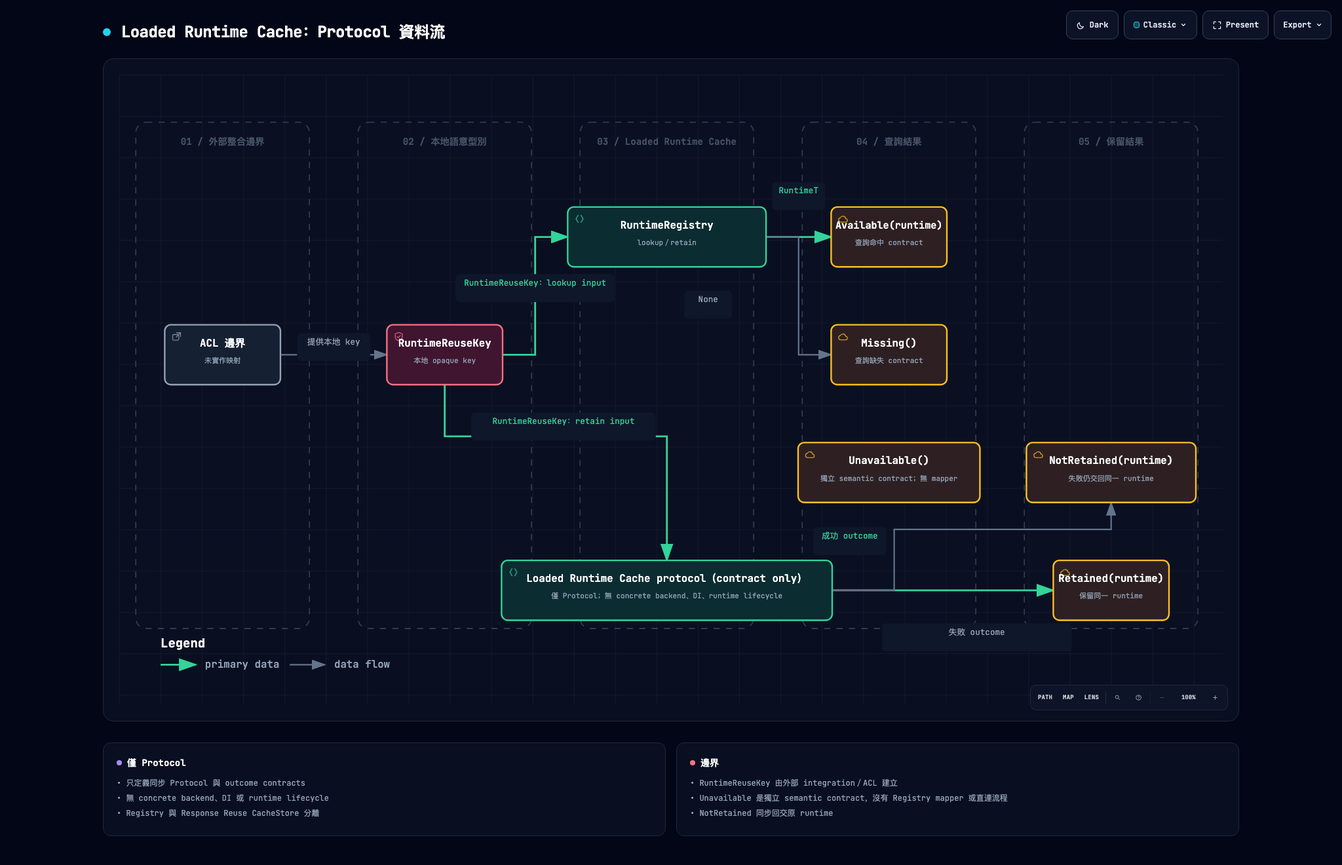
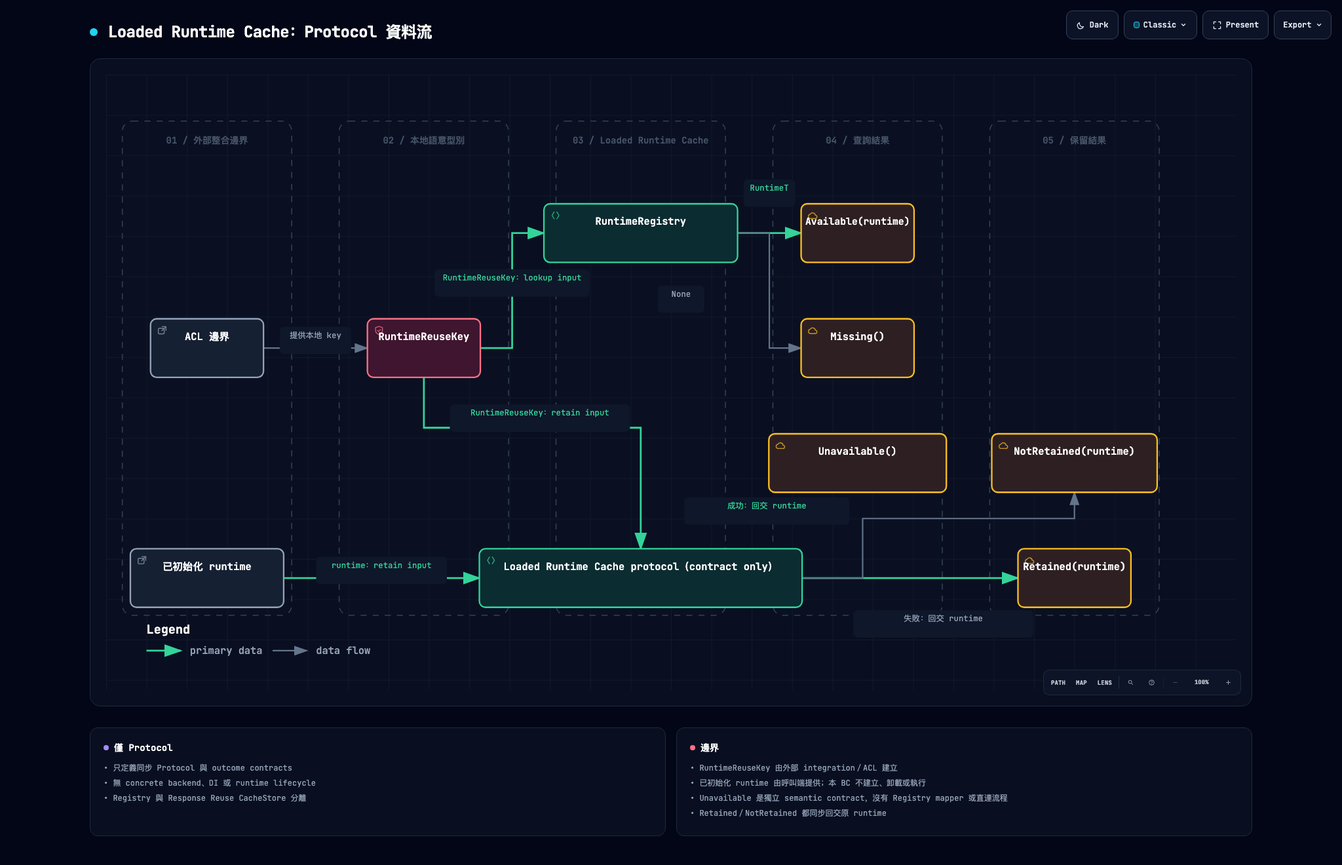
fix(loaded-runtime-cache): complete chained alias guard

diff --git a/docs/architecture/loaded-runtime-cache/loaded-runtime-cache.dataflow.html b/docs/architecture/loaded-runtime-cache/loaded-runtime-cache.dataflow.html
@@ -4997,7 +4997,7 @@
     <!-- Main Diagram -->
     <div class="diagram-container" data-detail-level="read"
          data-preset-badge-editorial-plate="ARCHIFY / PLATE 04">
-      <svg viewBox="0 0 1068 610" role="img" lang="en" aria-labelledby="archify-diagram-title archify-diagram-description" data-preset="classic" data-quality-profile="showcase">
+      <svg viewBox="0 0 1120 610" role="img" lang="en" aria-labelledby="archify-diagram-title archify-diagram-description" data-preset="classic" data-quality-profile="showcase">
         <title id="archify-diagram-title">Loaded Runtime Cache：Protocol 資料流</title>
         <desc id="archify-diagram-description">A data-flow diagram generated by Archify.</desc>
         <!-- Definitions -->
@@ -5042,116 +5042,120 @@
         <path data-edge-from="external-acl" data-edge-to="reuse-key" data-edge-label="提供本地 key" data-edge-key="0" data-edge-id="acl-provides-key" data-composition-points="156,271;259,271" d="M 156 271 L 259 271" class="a-default" stroke-width="1.4" marker-end="url(#arrowhead)"/>
         <path data-edge-from="reuse-key" data-edge-to="runtime-registry" data-edge-label="RuntimeReuseKey：lookup input" data-edge-key="1" data-edge-id="key-to-registry" data-composition-points="371,271;402.5,271;402.5,157;434,157" d="M 371 271 L 402.5 271 L 402.5 157 L 434 157" class="a-emphasis" stroke-width="1.8" marker-end="url(#arrowhead-emphasis)"/>
         <path data-edge-from="reuse-key" data-edge-to="runtime-retention" data-edge-label="RuntimeReuseKey：retain input" data-edge-key="2" data-edge-id="key-to-retention" data-composition-points="315,300;315,350;530,350;530,470" d="M 315 300 L 315 350 L 530 350 L 530 470" class="a-emphasis" stroke-width="1.8" marker-end="url(#arrowhead-emphasis)"/>
-        <path data-edge-from="runtime-registry" data-edge-to="available" data-edge-label="RuntimeT" data-edge-key="3" data-edge-id="lookup-hit" data-composition-points="626,157;689,157" d="M 626 157 L 689 157" class="a-emphasis" stroke-width="1.8" marker-end="url(#arrowhead-emphasis)"/>
-        <path data-edge-from="runtime-registry" data-edge-to="missing" data-edge-label="None" data-edge-key="4" data-edge-id="lookup-miss" data-composition-points="626,157;657.5,157;657.5,271;689,271" d="M 626 157 L 657.5 157 L 657.5 271 L 689 271" class="a-default" stroke-width="1.4" marker-end="url(#arrowhead)"/>
-        <path data-edge-from="runtime-retention" data-edge-to="retained" data-edge-label="成功 outcome" data-edge-key="5" data-edge-id="retain-success" data-composition-points="690,499;904,499" d="M 690 499 L 904 499" class="a-emphasis" stroke-width="1.8" marker-end="url(#arrowhead-emphasis)"/>
-        <path data-edge-from="runtime-retention" data-edge-to="not-retained" data-edge-label="失敗 outcome" data-edge-key="6" data-edge-id="retain-failure" data-composition-points="690,499;750,499;750,440;960,440;960,414" d="M 690 499 L 750 499 L 750 440 L 960 440 L 960 414" class="a-default" stroke-width="1.4" marker-end="url(#arrowhead)"/>
+        <path data-edge-from="initialized-runtime" data-edge-to="runtime-retention" data-edge-label="runtime：retain input" data-edge-key="3" data-edge-id="runtime-to-retention" data-composition-points="176,499;370,499" d="M 176 499 L 370 499" class="a-emphasis" stroke-width="1.8" marker-end="url(#arrowhead-emphasis)"/>
+        <path data-edge-from="runtime-registry" data-edge-to="available" data-edge-label="RuntimeT" data-edge-key="4" data-edge-id="lookup-hit" data-composition-points="626,157;689,157" d="M 626 157 L 689 157" class="a-emphasis" stroke-width="1.8" marker-end="url(#arrowhead-emphasis)"/>
+        <path data-edge-from="runtime-registry" data-edge-to="missing" data-edge-label="None" data-edge-key="5" data-edge-id="lookup-miss" data-composition-points="626,157;657.5,157;657.5,271;689,271" d="M 626 157 L 657.5 157 L 657.5 271 L 689 271" class="a-default" stroke-width="1.4" marker-end="url(#arrowhead)"/>
+        <path data-edge-from="runtime-retention" data-edge-to="retained" data-edge-label="成功：回交 runtime" data-edge-key="6" data-edge-id="retain-success" data-composition-points="690,499;904,499" d="M 690 499 L 904 499" class="a-emphasis" stroke-width="1.8" marker-end="url(#arrowhead-emphasis)"/>
+        <path data-edge-from="runtime-retention" data-edge-to="not-retained" data-edge-label="失敗：回交 runtime" data-edge-key="7" data-edge-id="retain-failure" data-composition-points="690,499;750,499;750,440;960,440;960,414" d="M 690 499 L 750 499 L 750 440 L 960 440 L 960 414" class="a-default" stroke-width="1.4" marker-end="url(#arrowhead)"/>
 
         <!-- Nodes -->
-        <g id="node-external-acl" data-node-id="external-acl" data-node-label="ACL 邊界" tabindex="0" role="button" aria-label="Focus ACL 邊界, 未實作映射, 01 / 外部整合邊界" aria-pressed="false" data-node-kind="external" data-node-sublabel="未實作映射" data-node-tag="BC 外" data-node-context="01 / 外部整合邊界">
-          <title>ACL 邊界 · 未實作映射 · 01 / 外部整合邊界 · BC 外</title>
+        <g id="node-external-acl" data-node-id="external-acl" data-node-label="ACL 邊界" tabindex="0" role="button" aria-label="Focus ACL 邊界, 01 / 外部整合邊界" aria-pressed="false" data-node-kind="external" data-node-tag="BC 外" data-node-context="01 / 外部整合邊界">
+          <title>ACL 邊界 · 01 / 外部整合邊界 · BC 外</title>
           <rect x="44" y="242" width="112" height="58" rx="6" class="c-mask"/>
           <rect x="44" y="242" width="112" height="58" rx="6" class="c-external" stroke-width="1.5"/>
           <g aria-hidden="true" data-semantic-sigil="external" class="semantic-sigil s-external" transform="translate(50 248) scale(0.6875)">
             <rect x="2.5" y="5" width="8.5" height="8" rx="1.5"/>
             <path d="M8 2.5h5.5V8M13.5 2.5 7.5 8.5"/>
           </g>
-          <text data-node-label="" data-detail-anchor="" x="100" y="263" class="t-primary" font-size="10" font-weight="600" text-anchor="middle">ACL 邊界</text>
-          <text data-detail="context" x="100" y="279" class="t-muted" font-size="7" text-anchor="middle">未實作映射</text>
+          <text data-node-label="" x="100" y="263" class="t-primary" font-size="10" font-weight="600" text-anchor="middle">ACL 邊界</text>
         <text data-detail="fine" x="100" y="289" class="t-external" font-size="7" text-anchor="middle">BC 外</text>
         </g>
 
-        <g id="node-reuse-key" data-node-id="reuse-key" data-node-label="RuntimeReuseKey" tabindex="0" role="button" aria-label="Focus RuntimeReuseKey, 本地 opaque key, 02 / 本地語意型別" aria-pressed="false" data-node-kind="security" data-node-sublabel="本地 opaque key" data-node-tag="原樣傳遞" data-node-context="02 / 本地語意型別">
-          <title>RuntimeReuseKey · 本地 opaque key · 02 / 本地語意型別 · 原樣傳遞</title>
+        <g id="node-reuse-key" data-node-id="reuse-key" data-node-label="RuntimeReuseKey" tabindex="0" role="button" aria-label="Focus RuntimeReuseKey, 02 / 本地語意型別" aria-pressed="false" data-node-kind="security" data-node-tag="原樣傳遞" data-node-context="02 / 本地語意型別">
+          <title>RuntimeReuseKey · 02 / 本地語意型別 · 原樣傳遞</title>
           <rect x="259" y="242" width="112" height="58" rx="6" class="c-mask"/>
           <rect x="259" y="242" width="112" height="58" rx="6" class="c-security" stroke-width="1.5"/>
           <g aria-hidden="true" data-semantic-sigil="security" class="semantic-sigil s-security" transform="translate(265 248) scale(0.6875)">
             <path d="M8 2.2 13 4v3.5c0 3.1-1.8 5.4-5 6.5-3.2-1.1-5-3.4-5-6.5V4Z"/>
             <path d="m5.8 8 1.5 1.5 3-3"/>
           </g>
-          <text data-node-label="" data-detail-anchor="" x="315" y="263" class="t-primary" font-size="10" font-weight="600" text-anchor="middle">RuntimeReuseKey</text>
-          <text data-detail="context" x="315" y="279" class="t-muted" font-size="7" text-anchor="middle">本地 opaque key</text>
+          <text data-node-label="" x="315" y="263" class="t-primary" font-size="10" font-weight="600" text-anchor="middle">RuntimeReuseKey</text>
         <text data-detail="fine" x="315" y="289" class="t-security" font-size="7" text-anchor="middle">原樣傳遞</text>
         </g>
 
-        <g id="node-runtime-registry" data-node-id="runtime-registry" data-node-label="RuntimeRegistry" tabindex="0" role="button" aria-label="Focus RuntimeRegistry, lookup／retain, 03 / Loaded Runtime Cache" aria-pressed="false" data-node-kind="backend" data-node-sublabel="lookup／retain" data-node-tag="內部 port；非 backend" data-node-context="03 / Loaded Runtime Cache">
-          <title>RuntimeRegistry · lookup／retain · 03 / Loaded Runtime Cache · 內部 port；非 backend</title>
+        <g id="node-initialized-runtime" data-node-id="initialized-runtime" data-node-label="已初始化 runtime" tabindex="0" role="button" aria-label="Focus 已初始化 runtime, 01 / 外部整合邊界" aria-pressed="false" data-node-kind="external" data-node-tag="retain input" data-node-context="01 / 外部整合邊界">
+          <title>已初始化 runtime · 01 / 外部整合邊界 · retain input</title>
+          <rect x="24" y="470" width="152" height="58" rx="6" class="c-mask"/>
+          <rect x="24" y="470" width="152" height="58" rx="6" class="c-external" stroke-width="1.5"/>
+          <g aria-hidden="true" data-semantic-sigil="external" class="semantic-sigil s-external" transform="translate(30 476) scale(0.6875)">
+            <rect x="2.5" y="5" width="8.5" height="8" rx="1.5"/>
+            <path d="M8 2.5h5.5V8M13.5 2.5 7.5 8.5"/>
+          </g>
+          <text data-node-label="" x="100" y="491" class="t-primary" font-size="10" font-weight="600" text-anchor="middle">已初始化 runtime</text>
+        <text data-detail="fine" x="100" y="517" class="t-external" font-size="7" text-anchor="middle">retain input</text>
+        </g>
+
+        <g id="node-runtime-registry" data-node-id="runtime-registry" data-node-label="RuntimeRegistry" tabindex="0" role="button" aria-label="Focus RuntimeRegistry, 03 / Loaded Runtime Cache" aria-pressed="false" data-node-kind="backend" data-node-tag="內部 port；非 backend" data-node-context="03 / Loaded Runtime Cache">
+          <title>RuntimeRegistry · 03 / Loaded Runtime Cache · 內部 port；非 backend</title>
           <rect x="434" y="128" width="192" height="58" rx="6" class="c-mask"/>
           <rect x="434" y="128" width="192" height="58" rx="6" class="c-backend" stroke-width="1.5"/>
           <g aria-hidden="true" data-semantic-sigil="backend" class="semantic-sigil s-backend" transform="translate(440 134) scale(0.6875)">
             <path d="M6 3 3 8l3 5M10 3l3 5-3 5"/>
           </g>
-          <text data-node-label="" data-detail-anchor="" x="530" y="149" class="t-primary" font-size="10" font-weight="600" text-anchor="middle">RuntimeRegistry</text>
-          <text data-detail="context" x="530" y="165" class="t-muted" font-size="7" text-anchor="middle">lookup／retain</text>
+          <text data-node-label="" x="530" y="149" class="t-primary" font-size="10" font-weight="600" text-anchor="middle">RuntimeRegistry</text>
         <text data-detail="fine" x="530" y="175" class="t-backend" font-size="7" text-anchor="middle">內部 port；非 backend</text>
         </g>
 
-        <g id="node-runtime-retention" data-node-id="runtime-retention" data-node-label="Loaded Runtime Cache protocol（contract only）" tabindex="0" role="button" aria-label="Focus Loaded Runtime Cache protocol（contract only）, 僅 Protocol；無 concrete backend、DI、runtime lifecycle, 03 / Loaded Runtime Cache" aria-pressed="false" data-node-kind="backend" data-node-sublabel="僅 Protocol；無 concrete backend、DI、runtime lifecycle" data-node-tag="RuntimeRetention contract" data-node-context="03 / Loaded Runtime Cache">
-          <title>Loaded Runtime Cache protocol（contract only） · 僅 Protocol；無 concrete backend、DI、runtime lifecycle · 03 / Loaded Runtime Cache · RuntimeRetention contract</title>
+        <g id="node-runtime-retention" data-node-id="runtime-retention" data-node-label="Loaded Runtime Cache protocol（contract only）" tabindex="0" role="button" aria-label="Focus Loaded Runtime Cache protocol（contract only）, 03 / Loaded Runtime Cache" aria-pressed="false" data-node-kind="backend" data-node-tag="RuntimeRetention contract" data-node-context="03 / Loaded Runtime Cache">
+          <title>Loaded Runtime Cache protocol（contract only） · 03 / Loaded Runtime Cache · RuntimeRetention contract</title>
           <rect x="370" y="470" width="320" height="58" rx="6" class="c-mask"/>
           <rect x="370" y="470" width="320" height="58" rx="6" class="c-backend" stroke-width="1.5"/>
           <g aria-hidden="true" data-semantic-sigil="backend" class="semantic-sigil s-backend" transform="translate(376 476) scale(0.6875)">
             <path d="M6 3 3 8l3 5M10 3l3 5-3 5"/>
           </g>
-          <text data-node-label="" data-detail-anchor="" x="530" y="491" class="t-primary" font-size="10" font-weight="600" text-anchor="middle">Loaded Runtime Cache protocol（contract only）</text>
-          <text data-detail="context" x="530" y="507" class="t-muted" font-size="7" text-anchor="middle">僅 Protocol；無 concrete backend、DI、runtime lifecycle</text>
+          <text data-node-label="" x="530" y="491" class="t-primary" font-size="10" font-weight="600" text-anchor="middle">Loaded Runtime Cache protocol（contract only）</text>
         <text data-detail="fine" x="530" y="517" class="t-backend" font-size="7" text-anchor="middle">RuntimeRetention contract</text>
         </g>
 
-        <g id="node-available" data-node-id="available" data-node-label="Available(runtime)" tabindex="0" role="button" aria-label="Focus Available(runtime), 查詢命中 contract, 04 / 查詢結果" aria-pressed="false" data-node-kind="cloud" data-node-sublabel="查詢命中 contract" data-node-context="04 / 查詢結果">
-          <title>Available(runtime) · 查詢命中 contract · 04 / 查詢結果</title>
+        <g id="node-available" data-node-id="available" data-node-label="Available(runtime)" tabindex="0" role="button" aria-label="Focus Available(runtime), 04 / 查詢結果" aria-pressed="false" data-node-kind="cloud" data-node-context="04 / 查詢結果">
+          <title>Available(runtime) · 04 / 查詢結果</title>
           <rect x="689" y="128" width="112" height="58" rx="6" class="c-mask"/>
           <rect x="689" y="128" width="112" height="58" rx="6" class="c-cloud" stroke-width="1.5"/>
           <g aria-hidden="true" data-semantic-sigil="cloud" class="semantic-sigil s-cloud" transform="translate(695 134) scale(0.6875)">
             <path d="M4.3 12.5h7.3a2.4 2.4 0 0 0 .2-4.8 4 4 0 0 0-7.5-1.3A3.1 3.1 0 0 0 4.3 12.5Z"/>
           </g>
-          <text data-node-label="" data-detail-anchor="" x="745" y="149" class="t-primary" font-size="9.6" font-weight="600" text-anchor="middle">Available(runtime)</text>
-          <text data-detail="context" x="745" y="165" class="t-muted" font-size="7" text-anchor="middle">查詢命中 contract</text>
+          <text data-node-label="" x="745" y="149" class="t-primary" font-size="9.6" font-weight="600" text-anchor="middle">Available(runtime)</text>
         </g>
 
-        <g id="node-missing" data-node-id="missing" data-node-label="Missing()" tabindex="0" role="button" aria-label="Focus Missing(), 查詢缺失 contract, 04 / 查詢結果" aria-pressed="false" data-node-kind="cloud" data-node-sublabel="查詢缺失 contract" data-node-context="04 / 查詢結果">
-          <title>Missing() · 查詢缺失 contract · 04 / 查詢結果</title>
+        <g id="node-missing" data-node-id="missing" data-node-label="Missing()" tabindex="0" role="button" aria-label="Focus Missing(), 04 / 查詢結果" aria-pressed="false" data-node-kind="cloud" data-node-context="04 / 查詢結果">
+          <title>Missing() · 04 / 查詢結果</title>
           <rect x="689" y="242" width="112" height="58" rx="6" class="c-mask"/>
           <rect x="689" y="242" width="112" height="58" rx="6" class="c-cloud" stroke-width="1.5"/>
           <g aria-hidden="true" data-semantic-sigil="cloud" class="semantic-sigil s-cloud" transform="translate(695 248) scale(0.6875)">
             <path d="M4.3 12.5h7.3a2.4 2.4 0 0 0 .2-4.8 4 4 0 0 0-7.5-1.3A3.1 3.1 0 0 0 4.3 12.5Z"/>
           </g>
-          <text data-node-label="" data-detail-anchor="" x="745" y="263" class="t-primary" font-size="10" font-weight="600" text-anchor="middle">Missing()</text>
-          <text data-detail="context" x="745" y="279" class="t-muted" font-size="7" text-anchor="middle">查詢缺失 contract</text>
+          <text data-node-label="" x="745" y="263" class="t-primary" font-size="10" font-weight="600" text-anchor="middle">Missing()</text>
         </g>
 
-        <g id="node-unavailable" data-node-id="unavailable" data-node-label="Unavailable()" tabindex="0" role="button" aria-label="Focus Unavailable(), 獨立 semantic contract；無 mapper, 04 / 查詢結果" aria-pressed="false" data-node-kind="cloud" data-node-sublabel="獨立 semantic contract；無 mapper" data-node-tag="非 Registry 直連" data-node-context="04 / 查詢結果">
-          <title>Unavailable() · 獨立 semantic contract；無 mapper · 04 / 查詢結果 · 非 Registry 直連</title>
+        <g id="node-unavailable" data-node-id="unavailable" data-node-label="Unavailable()" tabindex="0" role="button" aria-label="Focus Unavailable(), 04 / 查詢結果" aria-pressed="false" data-node-kind="cloud" data-node-tag="非 Registry 直連" data-node-context="04 / 查詢結果">
+          <title>Unavailable() · 04 / 查詢結果 · 非 Registry 直連</title>
           <rect x="657" y="356" width="176" height="58" rx="6" class="c-mask"/>
           <rect x="657" y="356" width="176" height="58" rx="6" class="c-cloud" stroke-width="1.5"/>
           <g aria-hidden="true" data-semantic-sigil="cloud" class="semantic-sigil s-cloud" transform="translate(663 362) scale(0.6875)">
             <path d="M4.3 12.5h7.3a2.4 2.4 0 0 0 .2-4.8 4 4 0 0 0-7.5-1.3A3.1 3.1 0 0 0 4.3 12.5Z"/>
           </g>
-          <text data-node-label="" data-detail-anchor="" x="745" y="377" class="t-primary" font-size="10" font-weight="600" text-anchor="middle">Unavailable()</text>
-          <text data-detail="context" x="745" y="393" class="t-muted" font-size="7" text-anchor="middle">獨立 semantic contract；無 mapper</text>
+          <text data-node-label="" x="745" y="377" class="t-primary" font-size="10" font-weight="600" text-anchor="middle">Unavailable()</text>
         <text data-detail="fine" x="745" y="403" class="t-cloud" font-size="7" text-anchor="middle">非 Registry 直連</text>
         </g>
 
-        <g id="node-retained" data-node-id="retained" data-node-label="Retained(runtime)" tabindex="0" role="button" aria-label="Focus Retained(runtime), 保留同一 runtime, 05 / 保留結果" aria-pressed="false" data-node-kind="cloud" data-node-sublabel="保留同一 runtime" data-node-context="05 / 保留結果">
-          <title>Retained(runtime) · 保留同一 runtime · 05 / 保留結果</title>
+        <g id="node-retained" data-node-id="retained" data-node-label="Retained(runtime)" tabindex="0" role="button" aria-label="Focus Retained(runtime), 05 / 保留結果" aria-pressed="false" data-node-kind="cloud" data-node-context="05 / 保留結果">
+          <title>Retained(runtime) · 05 / 保留結果</title>
           <rect x="904" y="470" width="112" height="58" rx="6" class="c-mask"/>
           <rect x="904" y="470" width="112" height="58" rx="6" class="c-cloud" stroke-width="1.5"/>
           <g aria-hidden="true" data-semantic-sigil="cloud" class="semantic-sigil s-cloud" transform="translate(910 476) scale(0.6875)">
             <path d="M4.3 12.5h7.3a2.4 2.4 0 0 0 .2-4.8 4 4 0 0 0-7.5-1.3A3.1 3.1 0 0 0 4.3 12.5Z"/>
           </g>
-          <text data-node-label="" data-detail-anchor="" x="960" y="491" class="t-primary" font-size="10" font-weight="600" text-anchor="middle">Retained(runtime)</text>
-          <text data-detail="context" x="960" y="507" class="t-muted" font-size="7" text-anchor="middle">保留同一 runtime</text>
+          <text data-node-label="" x="960" y="491" class="t-primary" font-size="10" font-weight="600" text-anchor="middle">Retained(runtime)</text>
         </g>
 
-        <g id="node-not-retained" data-node-id="not-retained" data-node-label="NotRetained(runtime)" tabindex="0" role="button" aria-label="Focus NotRetained(runtime), 失敗仍交回同一 runtime, 05 / 保留結果" aria-pressed="false" data-node-kind="cloud" data-node-sublabel="失敗仍交回同一 runtime" data-node-tag="同步 outcome" data-node-context="05 / 保留結果">
-          <title>NotRetained(runtime) · 失敗仍交回同一 runtime · 05 / 保留結果 · 同步 outcome</title>
+        <g id="node-not-retained" data-node-id="not-retained" data-node-label="NotRetained(runtime)" tabindex="0" role="button" aria-label="Focus NotRetained(runtime), 05 / 保留結果" aria-pressed="false" data-node-kind="cloud" data-node-tag="同步 outcome" data-node-context="05 / 保留結果">
+          <title>NotRetained(runtime) · 05 / 保留結果 · 同步 outcome</title>
           <rect x="878" y="356" width="164" height="58" rx="6" class="c-mask"/>
           <rect x="878" y="356" width="164" height="58" rx="6" class="c-cloud" stroke-width="1.5"/>
           <g aria-hidden="true" data-semantic-sigil="cloud" class="semantic-sigil s-cloud" transform="translate(884 362) scale(0.6875)">
             <path d="M4.3 12.5h7.3a2.4 2.4 0 0 0 .2-4.8 4 4 0 0 0-7.5-1.3A3.1 3.1 0 0 0 4.3 12.5Z"/>
           </g>
-          <text data-node-label="" data-detail-anchor="" x="960" y="377" class="t-primary" font-size="10" font-weight="600" text-anchor="middle">NotRetained(runtime)</text>
-          <text data-detail="context" x="960" y="393" class="t-muted" font-size="7" text-anchor="middle">失敗仍交回同一 runtime</text>
+          <text data-node-label="" x="960" y="377" class="t-primary" font-size="10" font-weight="600" text-anchor="middle">NotRetained(runtime)</text>
         <text data-detail="fine" x="960" y="403" class="t-cloud" font-size="7" text-anchor="middle">同步 outcome</text>
         </g>
 
@@ -5171,25 +5175,30 @@
           <text x="430" y="338" class="t-backend" font-size="8" text-anchor="middle">RuntimeReuseKey：retain input</text>
         <text data-detail="fine" x="430" y="349" class="t-dim" font-size="7" text-anchor="middle">同一 instance；opaque pass-through</text>
         </g>
-        <g data-detail="context" data-edge-from="runtime-registry" data-edge-to="available" data-edge-label="RuntimeT" data-edge-key="3" data-edge-id="lookup-hit">
+        <g data-detail="context" data-edge-from="initialized-runtime" data-edge-to="runtime-retention" data-edge-label="runtime：retain input" data-edge-key="3" data-edge-id="runtime-to-retention">
+          <rect x="208.2" y="478" width="129.6" height="27" rx="4" class="c-mask"/>
+          <text x="273" y="489" class="t-backend" font-size="8" text-anchor="middle">runtime：retain input</text>
+        <text data-detail="fine" x="273" y="500" class="t-dim" font-size="7" text-anchor="middle">原樣傳遞；不初始化或執行</text>
+        </g>
+        <g data-detail="context" data-edge-from="runtime-registry" data-edge-to="available" data-edge-label="RuntimeT" data-edge-key="4" data-edge-id="lookup-hit">
           <rect x="631.9" y="104" width="51.2" height="27" rx="4" class="c-mask"/>
           <text x="657.5" y="115" class="t-backend" font-size="8" text-anchor="middle">RuntimeT</text>
         <text data-detail="fine" x="657.5" y="126" class="t-dim" font-size="7" text-anchor="middle">hit</text>
         </g>
-        <g data-detail="context" data-edge-from="runtime-registry" data-edge-to="missing" data-edge-label="None" data-edge-key="4" data-edge-id="lookup-miss">
+        <g data-detail="context" data-edge-from="runtime-registry" data-edge-to="missing" data-edge-label="None" data-edge-key="5" data-edge-id="lookup-miss">
           <rect x="546.85" y="209" width="46.3" height="27" rx="4" class="c-mask"/>
           <text x="570" y="220" class="t-muted" font-size="8" text-anchor="middle">None</text>
         <text data-detail="fine" x="570" y="231" class="t-dim" font-size="7" text-anchor="middle">missing</text>
         </g>
-        <g data-detail="context" data-edge-from="runtime-retention" data-edge-to="retained" data-edge-label="成功 outcome" data-edge-key="5" data-edge-id="retain-success">
-          <rect x="671.6" y="438" width="70.8" height="27" rx="4" class="c-mask"/>
-          <text x="707" y="449" class="t-backend" font-size="8" text-anchor="middle">成功 outcome</text>
-        <text data-detail="fine" x="707" y="460" class="t-dim" font-size="7" text-anchor="middle">保留 runtime</text>
+        <g data-detail="context" data-edge-from="runtime-retention" data-edge-to="retained" data-edge-label="成功：回交 runtime" data-edge-key="6" data-edge-id="retain-success">
+          <rect x="573.05" y="419" width="163.9" height="27" rx="4" class="c-mask"/>
+          <text x="655" y="430" class="t-backend" font-size="8" text-anchor="middle">成功：回交 runtime</text>
+        <text data-detail="fine" x="655" y="441" class="t-dim" font-size="7" text-anchor="middle">Retained(runtime)；同一 runtime</text>
         </g>
-        <g data-detail="context" data-edge-from="runtime-retention" data-edge-to="not-retained" data-edge-label="失敗 outcome" data-edge-key="6" data-edge-id="retain-failure">
-          <rect x="738.25" y="531" width="183.5" height="27" rx="4" class="c-mask"/>
-          <text x="830" y="542" class="t-muted" font-size="8" text-anchor="middle">失敗 outcome</text>
-        <text data-detail="fine" x="830" y="553" class="t-dim" font-size="7" text-anchor="middle">RuntimeReuseKey + runtime；同步回交</text>
+        <g data-detail="context" data-edge-from="runtime-retention" data-edge-to="not-retained" data-edge-label="失敗：回交 runtime" data-edge-key="7" data-edge-id="retain-failure">
+          <rect x="740.7" y="531" width="178.6" height="27" rx="4" class="c-mask"/>
+          <text x="830" y="542" class="t-muted" font-size="8" text-anchor="middle">失敗：回交 runtime</text>
+        <text data-detail="fine" x="830" y="553" class="t-dim" font-size="7" text-anchor="middle">NotRetained(runtime)；同一 runtime</text>
         </g>
 
         <!-- Legend -->
@@ -5409,8 +5418,9 @@
         </div>
         <ul>
           <li>&bull; RuntimeReuseKey 由外部 integration／ACL 建立</li>
+          <li>&bull; 已初始化 runtime 由呼叫端提供；本 BC 不建立、卸載或執行</li>
           <li>&bull; Unavailable 是獨立 semantic contract，沒有 Registry mapper 或直連流程</li>
-          <li>&bull; NotRetained 同步回交原 runtime</li>
+          <li>&bull; Retained／NotRetained 都同步回交原 runtime</li>
         </ul>
       </div>
     </div>

diff --git a/tests/test_loaded_runtime_cache_bc_independence.py b/tests/test_loaded_runtime_cache_bc_independence.py
@@ -113,29 +113,33 @@ def _add_assignment_aliases(
     for _ in range(len(assignments) + 1):
         changed = False
         for statement in assignments:
-            target = _assignment_target_name(statement)
             value = statement.value
-            if target is None or value is None:
+            targets = _assignment_target_names(statement)
+            if not targets or value is None:
                 continue
             resolved = _resolve_forbidden_alias(value, modules, callables)
             if resolved is None:
                 continue
             kind, imported_name = resolved
             aliases = modules if kind == "module" else callables
-            if aliases.get(target) != imported_name:
-                aliases[target] = imported_name
-                changed = True
+            for target in targets:
+                if aliases.get(target) != imported_name:
+                    aliases[target] = imported_name
+                    changed = True
         if not changed:
             break
 
 
-def _assignment_target_name(statement: ast.Assign | ast.AnnAssign) -> str | None:
-    """Return one simple local assignment target, if this assignment has one."""
+def _assignment_target_names(statement: ast.Assign | ast.AnnAssign) -> tuple[str, ...]:
+    """Return all-simple local targets, rejecting mixed assignment targets atomically."""
     if isinstance(statement, ast.AnnAssign):
-        return statement.target.id if isinstance(statement.target, ast.Name) else None
-    if len(statement.targets) != 1 or not isinstance(statement.targets[0], ast.Name):
-        return None
-    return statement.targets[0].id
+        return (statement.target.id,) if isinstance(statement.target, ast.Name) else ()
+    names: list[str] = []
+    for target in statement.targets:
+        if not isinstance(target, ast.Name):
+            return ()
+        names.append(target.id)
+    return tuple(names)
 
 
 def _resolve_forbidden_alias(
@@ -304,7 +308,10 @@ def test_identity_bc_does_not_directly_import_loaded_runtime_cache() -> None:
         ),
         (
             "chained-assignment-callable-importlib-alias",
-            "import importlib\nfirst = second = importlib.import_module\nsecond('identity')\n",
+            (
+                "import importlib\nfirst = second = importlib.import_module\n"
+                "first('identity')\nsecond('identity')\n"
+            ),
         ),
         (
             "assignment-callable-builtins-alias",
@@ -332,6 +339,25 @@ def test_bc_independence_rejects_each_dynamic_import_bypass(
     (source_directory / "bypass.py").write_text(source, encoding="utf-8")
 
     assert _uses_dynamic_import_substitution(source_directory)
+
+
+def test_bc_independence_resolves_every_simple_target_of_chained_import_alias() -> None:
+    """Every simple target of a chained assignment retains the resolved import alias."""
+    _, callables = _import_aliases(
+        ast.parse("import importlib\nfirst = second = importlib.import_module\n"),
+    )
+
+    assert callables["first"] == "importlib.import_module"
+    assert callables["second"] == "importlib.import_module"
+
+
+def test_bc_independence_rejects_mixed_assignment_targets_atomically() -> None:
+    """A mixed-target assignment never grants an alias to only one target."""
+    _, callables = _import_aliases(
+        ast.parse("import importlib\nfirst = holder.value = importlib.import_module\n"),
+    )
+
+    assert "first" not in callables
 
 
 def test_bc_independence_rejects_duplicate_foreign_semantic_types(tmp_path: Path) -> None:
